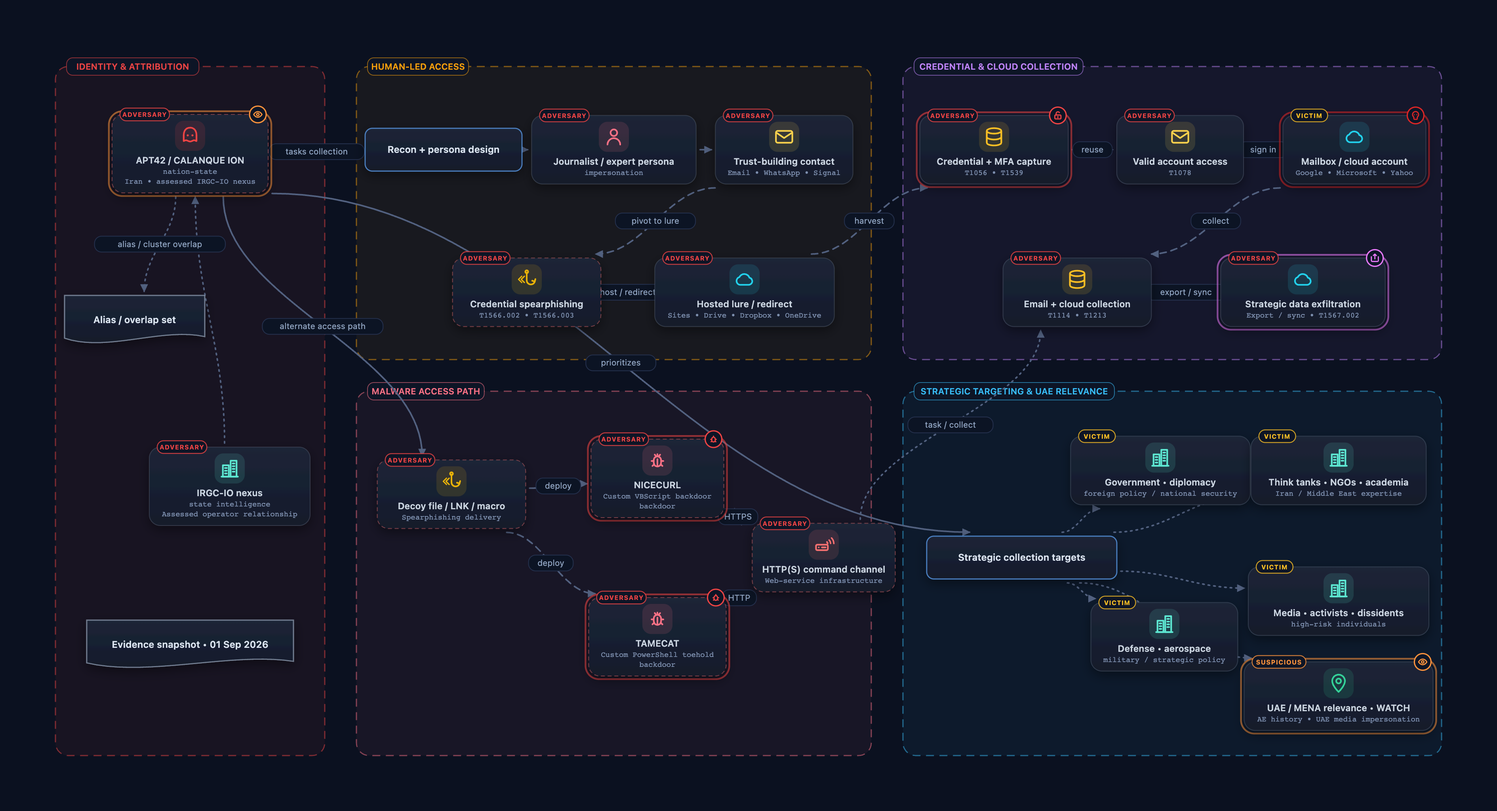
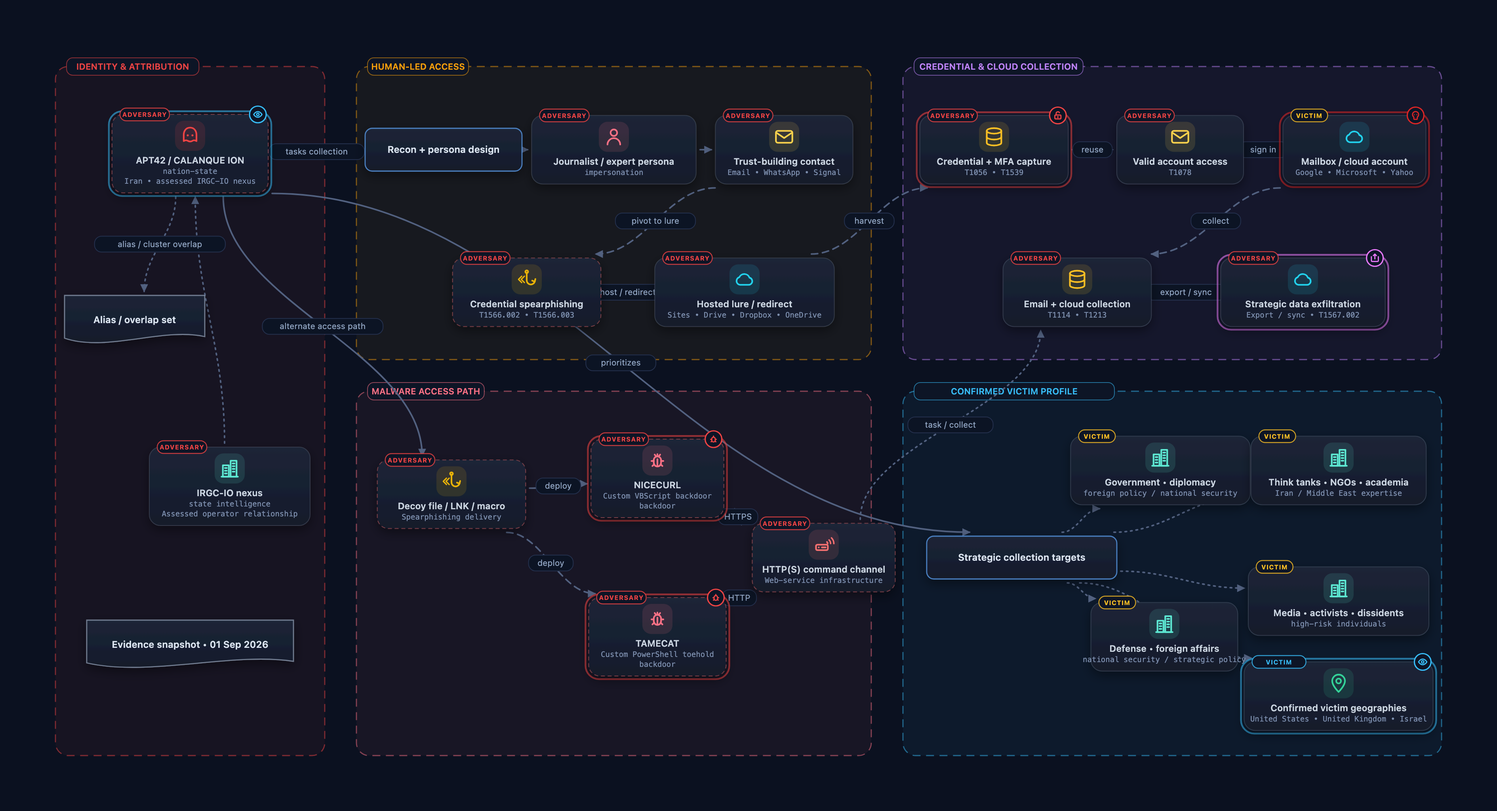
Redesign APT42 analysis and refine victim scope
Add guided investigation views, animated interaction, responsive presentation, and source-confirmed victim geographies.

diff --git a/index.html b/index.html
@@ -3,214 +3,137 @@
 <head>
   <meta charset="utf-8">
   <meta name="viewport" content="width=device-width, initial-scale=1">
-  <meta name="description" content="Interactive APT42 threat actor relationship and intrusion-path analysis.">
-  <title>APT42 Threat Actor Analysis</title>
+  <meta name="theme-color" content="#05070d">
+  <meta name="description" content="Interactive APT42 intrusion, collection and victim-profile analysis.">
+  <meta property="og:title" content="APT42 — Intrusion &amp; Targeting Map">
+  <meta property="og:description" content="Explore APT42's human-led access, credential theft, cloud collection, malware and confirmed victim profile.">
+  <meta property="og:image" content="APT42_Threat_Actor_Analysis.png">
+  <title>APT42 — Intrusion &amp; Targeting Map</title>
   <style>
-    :root {
-      color-scheme: dark;
-      --bg: #070b14;
-      --panel: rgba(15, 22, 38, .92);
-      --border: #25324b;
-      --text: #e5edf8;
-      --muted: #91a2bb;
-      --accent: #38bdf8;
-      --warn: #fb923c;
-    }
+    :root { color-scheme: dark; --bg:#05070d; --panel:rgba(9,14,25,.82); --line:rgba(137,161,196,.18); --line-strong:rgba(125,211,252,.35); --text:#f2f6fc; --muted:#8ea0ba; --cyan:#38bdf8; --violet:#c084fc; --amber:#fbbf24; --shadow:0 22px 70px rgba(0,0,0,.38); }
     * { box-sizing: border-box; }
-    html, body { height: 100%; margin: 0; }
-    body {
-      display: grid;
-      grid-template-rows: auto 1fr auto;
-      overflow: hidden;
-      background:
-        radial-gradient(circle at 15% 15%, rgba(56,189,248,.08), transparent 32%),
-        radial-gradient(circle at 85% 80%, rgba(192,132,252,.07), transparent 36%),
-        var(--bg);
-      color: var(--text);
-      font: 14px/1.45 Inter, ui-sans-serif, system-ui, -apple-system, BlinkMacSystemFont, "Segoe UI", sans-serif;
-    }
-    header {
-      position: relative;
-      z-index: 3;
-      display: flex;
-      align-items: center;
-      gap: 18px;
-      min-height: 68px;
-      padding: 12px 18px;
-      border-bottom: 1px solid var(--border);
-      background: var(--panel);
-      backdrop-filter: blur(14px);
-    }
-    .identity { min-width: 250px; }
-    .eyebrow {
-      color: var(--accent);
-      font-size: 10px;
-      font-weight: 750;
-      letter-spacing: .16em;
-      text-transform: uppercase;
-    }
-    h1 { margin: 2px 0 0; font-size: clamp(17px, 2vw, 23px); line-height: 1.1; }
-    .subtitle { color: var(--muted); font-size: 12px; }
-    .actions { display: flex; flex-wrap: wrap; gap: 8px; margin-left: auto; }
-    button, .button {
-      display: inline-flex;
-      align-items: center;
-      justify-content: center;
-      min-height: 34px;
-      padding: 0 11px;
-      border: 1px solid var(--border);
-      border-radius: 9px;
-      background: #111a2d;
-      color: var(--text);
-      font: inherit;
-      font-size: 12px;
-      font-weight: 650;
-      text-decoration: none;
-      cursor: pointer;
-    }
-    button:hover, .button:hover { border-color: #486081; background: #16233a; }
-    .button.primary { border-color: #1e6086; background: #10324a; color: #7dd3fc; }
-    #viewer {
-      position: relative;
-      min-height: 0;
-      overflow: hidden;
-      touch-action: none;
-      cursor: grab;
-    }
-    #viewer.dragging { cursor: grabbing; }
-    #stage { width: 100%; height: 100%; }
-    #stage svg { width: 100%; height: 100%; display: block; }
-    .status {
-      position: absolute;
-      left: 16px;
-      bottom: 14px;
-      display: flex;
-      gap: 8px;
-      flex-wrap: wrap;
-      pointer-events: none;
-    }
-    .pill {
-      padding: 5px 9px;
-      border: 1px solid var(--border);
-      border-radius: 999px;
-      background: rgba(9,14,25,.85);
-      color: var(--muted);
-      font-size: 11px;
-      backdrop-filter: blur(8px);
-    }
-    .pill.watch { border-color: rgba(251,146,60,.45); color: #fdba74; }
-    footer {
-      display: flex;
-      align-items: center;
-      gap: 12px;
-      min-height: 38px;
-      padding: 7px 18px;
-      border-top: 1px solid var(--border);
-      background: var(--panel);
-      color: var(--muted);
-      font-size: 11px;
-    }
-    footer span:last-child { margin-left: auto; }
-    @media (max-width: 760px) {
-      header { align-items: flex-start; flex-direction: column; gap: 10px; }
-      .actions { margin-left: 0; }
-      footer { display: none; }
-    }
+    html,body { width:100%; height:100%; margin:0; }
+    body { overflow:hidden; background:radial-gradient(circle at 72% 16%,rgba(56,189,248,.09),transparent 28%),radial-gradient(circle at 24% 86%,rgba(192,132,252,.08),transparent 32%),linear-gradient(145deg,#070b13 0%,var(--bg) 52%,#060914 100%); color:var(--text); font:14px/1.45 Inter,ui-sans-serif,system-ui,-apple-system,BlinkMacSystemFont,"Segoe UI",sans-serif; }
+    body::before { position:fixed; inset:0; z-index:-1; background-image:linear-gradient(rgba(126,156,193,.025) 1px,transparent 1px),linear-gradient(90deg,rgba(126,156,193,.025) 1px,transparent 1px); background-size:38px 38px; content:""; mask-image:linear-gradient(to bottom,#000,transparent 85%); }
+    button,a { font:inherit; }
+    button:focus-visible,a:focus-visible { outline:2px solid var(--cyan); outline-offset:3px; }
+    .shell { display:grid; grid-template-rows:auto 1fr; height:100%; }
+    header { position:relative; z-index:20; display:grid; grid-template-columns:minmax(270px,1fr) auto auto; align-items:center; gap:24px; min-height:86px; padding:14px 20px; border-bottom:1px solid var(--line); background:rgba(5,8,15,.78); box-shadow:0 12px 40px rgba(0,0,0,.2); backdrop-filter:blur(18px) saturate(135%); }
+    header::after { position:absolute; right:0; bottom:-1px; left:0; height:1px; background:linear-gradient(90deg,transparent,rgba(56,189,248,.7),rgba(192,132,252,.45),transparent); content:""; }
+    .brand { display:flex; align-items:center; gap:13px; min-width:0; }
+    .mark { position:relative; display:grid; flex:0 0 46px; width:46px; height:46px; place-items:center; border:1px solid rgba(56,189,248,.42); border-radius:14px; background:linear-gradient(145deg,rgba(56,189,248,.16),rgba(192,132,252,.08)); color:#a5e3ff; box-shadow:inset 0 0 20px rgba(56,189,248,.08),0 0 30px rgba(56,189,248,.07); font-weight:850; letter-spacing:-.05em; }
+    .mark::after { position:absolute; inset:5px; border:1px solid rgba(255,255,255,.08); border-radius:9px; content:""; }
+    .eyebrow { color:var(--cyan); font-size:9px; font-weight:800; letter-spacing:.19em; text-transform:uppercase; }
+    h1 { overflow:hidden; margin:3px 0 0; font-size:clamp(17px,1.8vw,23px); line-height:1.05; letter-spacing:-.025em; text-overflow:ellipsis; white-space:nowrap; }
+    .subtitle { margin-top:4px; overflow:hidden; color:var(--muted); font-size:11px; text-overflow:ellipsis; white-space:nowrap; }
+    .signal-strip { display:flex; gap:8px; }
+    .signal { min-width:118px; padding:8px 10px; border:1px solid var(--line); border-radius:11px; background:rgba(14,22,37,.58); }
+    .signal strong { display:block; color:#dce8f7; font-size:11px; font-weight:750; }
+    .signal span { display:block; margin-top:1px; color:var(--muted); font-size:9px; letter-spacing:.08em; text-transform:uppercase; }
+    .signal.confidence strong { color:#86efcf; } .signal.paths strong { color:#f9d477; } .signal.victims strong { color:#8bdcff; }
+    .header-actions { display:flex; align-items:center; gap:8px; }
+    .icon-button,.download-button { display:inline-grid; min-height:36px; place-items:center; border:1px solid var(--line); border-radius:10px; background:rgba(18,28,47,.72); color:#c7d4e6; text-decoration:none; cursor:pointer; transition:transform .18s ease,border-color .18s ease,background .18s ease,color .18s ease; }
+    .icon-button { width:36px; padding:0; font-size:17px; } .download-button { padding:0 12px; color:#b6e8ff; font-size:11px; font-weight:750; }
+    .icon-button:hover,.download-button:hover { transform:translateY(-1px); border-color:var(--line-strong); background:rgba(22,42,67,.9); color:#fff; }
+    main { position:relative; min-height:0; overflow:hidden; }
+    #viewer { position:absolute; inset:0; overflow:hidden; touch-action:none; cursor:grab; } #viewer.dragging { cursor:grabbing; }
+    #stage { width:100%; height:100%; opacity:0; transform:scale(.985); transition:opacity .65s ease,transform .65s ease; } #stage.ready { opacity:1; transform:scale(1); }
+    #stage svg { display:block; width:100%; height:100%; }
+    #stage .nodeg { cursor:crosshair; transition:opacity .22s ease,filter .22s ease; }
+    #stage .nodeg .card { transition:stroke .22s ease,filter .22s ease; }
+    #stage .nodeg:hover .card { stroke:#7dd3fc!important; filter:url(#nodeShadow) drop-shadow(0 0 9px rgba(56,189,248,.35)); }
+    #stage .nodeg.selected .card { stroke:#fff!important; filter:url(#nodeShadow) drop-shadow(0 0 12px rgba(125,211,252,.5)); }
+    #stage .edge path { transition:opacity .2s ease,stroke-width .2s ease; }
+    #stage .edge.flow path { animation:flow 1.25s linear infinite; }
+    @keyframes flow { to { stroke-dashoffset:-24; } }
+    .glass { border:1px solid var(--line); background:var(--panel); box-shadow:var(--shadow); backdrop-filter:blur(18px) saturate(125%); }
+    .intel-card { position:absolute; top:18px; right:18px; z-index:10; width:min(310px,calc(100vw - 36px)); padding:15px; border-radius:16px; transition:opacity .25s ease,transform .25s ease; }
+    .intel-card.collapsed { transform:translateX(calc(100% + 32px)); opacity:0; pointer-events:none; }
+    .card-top { display:flex; align-items:center; justify-content:space-between; gap:12px; }
+    .card-kicker { color:var(--cyan); font-size:9px; font-weight:800; letter-spacing:.16em; text-transform:uppercase; }
+    .card-title { margin:4px 0 0; font-size:15px; letter-spacing:-.01em; }
+    .close-card { border:0; background:transparent; color:var(--muted); cursor:pointer; }
+    .assessment { margin:13px 0; color:#becbe0; font-size:12px; line-height:1.55; }
+    .facts { display:grid; gap:8px; }
+    .fact { display:grid; grid-template-columns:8px 1fr; gap:8px; align-items:start; color:var(--muted); font-size:10px; }
+    .fact i { width:6px; height:6px; margin-top:5px; border-radius:50%; background:var(--cyan); box-shadow:0 0 12px currentColor; }
+    .fact:nth-child(2) i { background:var(--amber); } .fact:nth-child(3) i { background:var(--violet); }
+    .source-line { margin-top:13px; padding-top:11px; border-top:1px solid var(--line); color:#6f829f; font-size:9px; }
+    .reopen-card { position:absolute; top:18px; right:18px; z-index:9; display:none; } .intel-card.collapsed + .reopen-card { display:inline-grid; }
+    .legend { position:absolute; left:18px; bottom:88px; z-index:8; display:flex; gap:12px; padding:8px 11px; border-radius:10px; color:var(--muted); font-size:9px; pointer-events:none; }
+    .legend span { display:inline-flex; align-items:center; gap:6px; } .legend i { display:inline-block; width:24px; height:0; border-top:2px solid #97a9bf; }
+    .legend .dashed { border-top-style:dashed; border-color:var(--amber); } .legend .dotted { border-top-style:dotted; border-color:var(--cyan); }
+    .story-dock { position:absolute; right:18px; bottom:16px; left:18px; z-index:12; display:flex; align-items:center; gap:7px; min-width:0; padding:8px; border-radius:15px; }
+    .dock-label { padding:0 9px; color:#6f829f; font-size:9px; font-weight:800; letter-spacing:.15em; text-transform:uppercase; white-space:nowrap; }
+    .chapters { display:flex; gap:6px; min-width:0; overflow-x:auto; scrollbar-width:none; } .chapters::-webkit-scrollbar { display:none; }
+    .chapter { position:relative; min-height:38px; padding:0 13px; border:1px solid transparent; border-radius:10px; background:transparent; color:var(--muted); font-size:10px; font-weight:730; white-space:nowrap; cursor:pointer; transition:color .18s ease,background .18s ease,border-color .18s ease; }
+    .chapter::before { margin-right:7px; color:#51647f; content:attr(data-key); font-size:8px; }
+    .chapter:hover { color:#dce8f7; background:rgba(39,55,80,.35); }
+    .chapter.active { border-color:rgba(56,189,248,.32); background:rgba(56,189,248,.1); color:#bdeaff; } .chapter.active::before { color:var(--cyan); }
+    .dock-actions { display:flex; gap:5px; margin-left:auto; padding-left:6px; border-left:1px solid var(--line); } .dock-actions .icon-button { width:32px; min-height:32px; font-size:15px; }
+    .tooltip { position:absolute; z-index:30; display:none; width:min(260px,calc(100vw - 30px)); padding:11px 12px; border-radius:12px; pointer-events:none; }
+    .tooltip.visible { display:block; animation:tooltip-in .16s ease both; } .tooltip strong { display:block; color:#e8f2ff; font-size:11px; } .tooltip span { display:block; margin-top:4px; color:var(--muted); font-size:10px; line-height:1.45; }
+    @keyframes tooltip-in { from { opacity:0; transform:translateY(4px); } }
+    .loading { position:absolute; inset:0; display:grid; place-items:center; color:var(--muted); font-size:11px; letter-spacing:.12em; text-transform:uppercase; }
+    @media (max-width:1080px) { header { grid-template-columns:1fr auto; } .signal-strip { display:none; } .intel-card { width:280px; } }
+    @media (max-width:700px) { header { min-height:72px; padding:10px 12px; gap:10px; } .mark { width:40px; height:40px; flex-basis:40px; border-radius:12px; } .subtitle { display:none; } .download-button { display:none; } .intel-card { top:10px; right:10px; width:min(275px,calc(100vw - 20px)); } .legend { display:none; } .story-dock { right:8px; bottom:8px; left:8px; } .dock-label,.dock-actions { display:none; } .chapters { width:100%; } .chapter { min-height:36px; padding:0 11px; } }
+    @media (prefers-reduced-motion:reduce) { *,*::before,*::after { scroll-behavior:auto!important; animation-duration:.001ms!important; animation-iteration-count:1!important; transition-duration:.001ms!important; } }
   </style>
 </head>
 <body>
-  <header>
-    <div class="identity">
-      <div class="eyebrow">Threat actor analysis</div>
-      <h1>APT42 / CALANQUE ION</h1>
-      <div class="subtitle">Identity, access paths, collection, tooling and UAE relevance</div>
-    </div>
-    <div class="actions" aria-label="Viewer controls">
-      <button id="zoomOut" title="Zoom out">−</button>
-      <button id="fit" title="Fit diagram">Fit</button>
-      <button id="zoomIn" title="Zoom in">+</button>
-      <a class="button" href="APT42_Threat_Actor_Analysis.netdraw.json" download>NetDraw JSON</a>
-      <a class="button" href="APT42_Threat_Actor_Analysis.svg" download>SVG</a>
-      <a class="button primary" href="https://mr-r3b00t.github.io/net_draw/" target="_blank" rel="noopener">Edit in NetDraw</a>
-    </div>
-  </header>
-
-  <main id="viewer" aria-label="Interactive APT42 relationship graph">
-    <div id="stage" role="img" aria-label="APT42 threat actor analysis diagram"></div>
-    <div class="status">
-      <span class="pill">Drag to pan · wheel or buttons to zoom · double-click to fit</span>
-      <span class="pill">Evidence snapshot: 01 Sep 2026</span>
-      <span class="pill watch">UAE relevance: WATCH, not confirmed victimization</span>
-    </div>
-  </main>
-
-  <footer>
-    <span>Solid: supported relationship · dashed: observed operational flow · dotted: assessed overlap/context</span>
-    <span>Defensive intelligence visualization</span>
-  </footer>
-
+  <div class="shell">
+    <header>
+      <div class="brand">
+        <div class="mark" aria-hidden="true">42</div>
+        <div><div class="eyebrow">Threat intelligence · evidence map</div><h1>APT42 — Intrusion &amp; Targeting Map</h1><div class="subtitle">Identity → social engineering → credential or malware access → strategic collection</div></div>
+      </div>
+      <div class="signal-strip" aria-label="Analysis summary">
+        <div class="signal confidence"><strong>High confidence</strong><span>IRGC-IO nexus</span></div>
+        <div class="signal paths"><strong>2 intrusion paths</strong><span>Identity + malware</span></div>
+        <div class="signal victims"><strong>3 named geographies</strong><span>US · UK · Israel</span></div>
+      </div>
+      <div class="header-actions">
+        <a class="download-button" href="APT42_Threat_Actor_Analysis.netdraw.json" download>Source JSON</a>
+        <a class="download-button" href="APT42_Threat_Actor_Analysis.svg" download>Export SVG</a>
+        <button class="icon-button" id="fullscreen" type="button" title="Enter fullscreen" aria-label="Enter fullscreen">⛶</button>
+      </div>
+    </header>
+    <main>
+      <div id="viewer" aria-label="Interactive APT42 relationship graph"><div class="loading" id="loading">Loading intelligence map</div><div id="stage" role="img" aria-label="APT42 intrusion and victim-profile relationship diagram"></div></div>
+      <aside class="intel-card glass" id="intelCard" aria-label="Analytic summary">
+        <div class="card-top"><div><div class="card-kicker">Analytic summary</div><h2 class="card-title">Human trust is the access layer</h2></div><button class="close-card" id="closeCard" type="button" aria-label="Hide analytic summary">×</button></div>
+        <p class="assessment">APT42 builds credibility through tailored personas and sustained dialogue, then pivots to credential capture or a malware-backed foothold for intelligence collection.</p>
+        <div class="facts"><div class="fact"><i></i><span>Credential operations target passwords and authentication material before cloud access.</span></div><div class="fact"><i></i><span>NICECURL and TAMECAT form the alternate workstation-access branch.</span></div><div class="fact"><i></i><span>Victim sectors include government, media, civil society, academia, legal services and defense policy.</span></div></div>
+        <div class="source-line">Evidence snapshot · 01 Sep 2026 · Public first-party reporting</div>
+      </aside>
+      <button class="icon-button reopen-card glass" id="reopenCard" type="button" title="Show analytic summary" aria-label="Show analytic summary">i</button>
+      <div class="legend glass" aria-label="Relationship legend"><span><i></i>supported relationship</span><span><i class="dashed"></i>observed flow</span><span><i class="dotted"></i>assessed context</span></div>
+      <nav class="story-dock glass" aria-label="Investigation views">
+        <div class="dock-label">Explore</div>
+        <div class="chapters"><button class="chapter active" data-view="overview" data-key="0" type="button">Overview</button><button class="chapter" data-view="identity" data-key="1" type="button">Attribution</button><button class="chapter" data-view="social" data-key="2" type="button">Social engineering</button><button class="chapter" data-view="credentials" data-key="3" type="button">Credential path</button><button class="chapter" data-view="malware" data-key="4" type="button">Malware path</button><button class="chapter" data-view="victims" data-key="5" type="button">Victim profile</button></div>
+        <div class="dock-actions"><button class="icon-button" id="zoomOut" type="button" title="Zoom out" aria-label="Zoom out">−</button><button class="icon-button" id="zoomIn" type="button" title="Zoom in" aria-label="Zoom in">+</button></div>
+      </nav>
+      <div class="tooltip glass" id="tooltip" role="status" aria-live="polite"></div>
+    </main>
+  </div>
   <script>
-    const viewer = document.getElementById('viewer');
-    const stage = document.getElementById('stage');
-    let svg;
-    let base = { x: -40, y: -4, w: 1890, h: 1024 };
-    let view = { ...base };
-    let drag = null;
-
-    function applyView() {
-      if (svg) svg.setAttribute('viewBox', `${view.x} ${view.y} ${view.w} ${view.h}`);
-    }
-    function fit() { view = { ...base }; applyView(); }
-    function zoom(factor, cx = view.x + view.w / 2, cy = view.y + view.h / 2) {
-      const nextW = Math.max(280, Math.min(base.w * 2.5, view.w * factor));
-      const nextH = nextW * (view.h / view.w);
-      const rx = (cx - view.x) / view.w;
-      const ry = (cy - view.y) / view.h;
-      view = { x: cx - nextW * rx, y: cy - nextH * ry, w: nextW, h: nextH };
-      applyView();
-    }
-    function point(event) {
-      const r = viewer.getBoundingClientRect();
-      return {
-        x: view.x + (event.clientX - r.left) / r.width * view.w,
-        y: view.y + (event.clientY - r.top) / r.height * view.h
-      };
-    }
-
-    fetch('APT42_Threat_Actor_Analysis.svg')
-      .then(r => { if (!r.ok) throw new Error('SVG unavailable'); return r.text(); })
-      .then(text => {
-        stage.innerHTML = text;
-        svg = stage.querySelector('svg');
-        const vb = svg.viewBox.baseVal;
-        base = { x: vb.x, y: vb.y, w: vb.width, h: vb.height };
-        fit();
-      })
-      .catch(() => { stage.textContent = 'The APT42 diagram could not be loaded.'; });
-
-    viewer.addEventListener('wheel', event => {
-      event.preventDefault();
-      const p = point(event);
-      zoom(event.deltaY > 0 ? 1.12 : .89, p.x, p.y);
-    }, { passive: false });
-    viewer.addEventListener('pointerdown', event => {
-      drag = { p: point(event), view: { ...view } };
-      viewer.classList.add('dragging');
-      viewer.setPointerCapture(event.pointerId);
-    });
-    viewer.addEventListener('pointermove', event => {
-      if (!drag) return;
-      const p = point(event);
-      view.x = drag.view.x - (p.x - drag.p.x);
-      view.y = drag.view.y - (p.y - drag.p.y);
-      applyView();
-    });
-    viewer.addEventListener('pointerup', () => { drag = null; viewer.classList.remove('dragging'); });
-    viewer.addEventListener('pointercancel', () => { drag = null; viewer.classList.remove('dragging'); });
-    viewer.addEventListener('dblclick', fit);
-    document.getElementById('zoomIn').addEventListener('click', () => zoom(.82));
-    document.getElementById('zoomOut').addEventListener('click', () => zoom(1.22));
-    document.getElementById('fit').addEventListener('click', fit);
+    const viewer=document.getElementById('viewer'),stage=document.getElementById('stage'),tooltip=document.getElementById('tooltip'),intelCard=document.getElementById('intelCard');
+    let svg,base={x:-40,y:-4,w:1890,h:1024},view={...base},drag=null;
+    const views={overview:{x:-40,y:-4,w:1890,h:1024,nodes:[]},identity:{x:0,y:45,w:430,h:930,nodes:['actor','aliases','nexus','scope']},social:{x:350,y:70,w:760,h:430,nodes:['recon','persona','rapport','phish','lure']},credentials:{x:1020,y:55,w:820,h:445,nodes:['credcap','valid','cloudacct','collect','exfil']},malware:{x:360,y:455,w:790,h:550,nodes:['mal_lure','nicecurl','tamecat','c2']},victims:{x:1060,y:455,w:760,h:550,nodes:['targethub','gov','civil','media','defense','geographies']}};
+    const notes={actor:['APT42 / CALANQUE ION','Iranian cyber-espionage actor assessed by Mandiant to operate on behalf of the IRGC Intelligence Organization.'],nexus:['IRGC-IO nexus','High-confidence intelligence assessment supported by first-party threat reporting.'],persona:['Impersonated persona','Journalists, researchers, event organizers, think-tank staff and security professionals are used to establish credibility.'],rapport:['Trust-building contact','Benign correspondence can continue before the target is moved to a lure or another channel.'],phish:['Credential spearphishing','Links, benign-looking PDFs and messaging services deliver credential-harvesting pages.'],credcap:['Credential + MFA capture','Observed kits collect passwords, authentication codes, device PINs and recovery material.'],cloudacct:['Cloud-account compromise','Stolen authentication material enables access to personal and corporate mailboxes and cloud data.'],nicecurl:['NICECURL','Custom VBScript backdoor supporting module download and command execution over HTTPS.'],tamecat:['TAMECAT','Custom PowerShell toehold capable of executing PowerShell or C# content.'],targethub:['Strategic targeting','Collection priorities concentrate on people with access to foreign-policy, national-security and civil-society information.'],geographies:['Confirmed victim geographies','Public reporting explicitly identifies the United States, United Kingdom and Israel.']};
+    function applyView(animate=false){if(!svg)return;if(!animate){svg.setAttribute('viewBox',`${view.x} ${view.y} ${view.w} ${view.h}`);return}const start={x:svg.viewBox.baseVal.x,y:svg.viewBox.baseVal.y,w:svg.viewBox.baseVal.width,h:svg.viewBox.baseVal.height},target={...view},started=performance.now(),duration=560;function frame(now){const p=Math.min(1,(now-started)/duration),e=1-Math.pow(1-p,3),next={};for(const key of ['x','y','w','h'])next[key]=start[key]+(target[key]-start[key])*e;svg.setAttribute('viewBox',`${next.x} ${next.y} ${next.w} ${next.h}`);if(p<1)requestAnimationFrame(frame)}requestAnimationFrame(frame)}
+    function setView(name,animate=true){const preset=views[name]||views.overview;view={x:preset.x,y:preset.y,w:preset.w,h:preset.h};document.querySelectorAll('.chapter').forEach(b=>b.classList.toggle('active',b.dataset.view===name));if(svg)svg.querySelectorAll('.nodeg').forEach(n=>n.classList.toggle('selected',preset.nodes.includes(n.dataset.node)));applyView(animate)}
+    function zoom(factor,cx=view.x+view.w/2,cy=view.y+view.h/2){const nextW=Math.max(250,Math.min(base.w*2.4,view.w*factor)),nextH=nextW*(view.h/view.w),rx=(cx-view.x)/view.w,ry=(cy-view.y)/view.h;view={x:cx-nextW*rx,y:cy-nextH*ry,w:nextW,h:nextH};document.querySelectorAll('.chapter').forEach(b=>b.classList.remove('active'));applyView()}
+    function point(e){const r=viewer.getBoundingClientRect();return{x:view.x+(e.clientX-r.left)/r.width*view.w,y:view.y+(e.clientY-r.top)/r.height*view.h}}
+    function moveTooltip(e){const r=document.querySelector('main').getBoundingClientRect(),x=Math.min(r.width-278,Math.max(12,e.clientX-r.left+16)),y=Math.min(r.height-120,Math.max(12,e.clientY-r.top+16));tooltip.style.left=`${x}px`;tooltip.style.top=`${y}px`}
+    function attachGraphInteractions(){['e05','e06','e07','e08','e09','e10','e11','e12','e14','e15','e16','e17','e18'].forEach(id=>svg.querySelector(`[data-edge="${id}"]`)?.classList.add('flow'));svg.querySelectorAll('.nodeg').forEach(node=>{const entry=notes[node.dataset.node];if(!entry)return;node.addEventListener('pointerenter',e=>{tooltip.innerHTML=`<strong>${entry[0]}</strong><span>${entry[1]}</span>`;tooltip.classList.add('visible');moveTooltip(e)});node.addEventListener('pointermove',moveTooltip);node.addEventListener('pointerleave',()=>tooltip.classList.remove('visible'))})}
+    fetch('APT42_Threat_Actor_Analysis.svg').then(r=>{if(!r.ok)throw new Error('SVG unavailable');return r.text()}).then(text=>{stage.innerHTML=text;svg=stage.querySelector('svg');const vb=svg.viewBox.baseVal;base={x:vb.x,y:vb.y,w:vb.width,h:vb.height};views.overview={...base,nodes:[]};setView('overview',false);attachGraphInteractions();if(matchMedia('(max-width:700px)').matches)intelCard.classList.add('collapsed');document.getElementById('loading').remove();requestAnimationFrame(()=>stage.classList.add('ready'))}).catch(()=>{document.getElementById('loading').textContent='The intelligence map could not be loaded.'});
+    viewer.addEventListener('wheel',e=>{e.preventDefault();const p=point(e);zoom(e.deltaY>0?1.1:.9,p.x,p.y)},{passive:false});
+    viewer.addEventListener('pointerdown',e=>{if(e.target.closest('.nodeg'))return;drag={p:point(e),view:{...view}};viewer.classList.add('dragging');viewer.setPointerCapture(e.pointerId)});
+    viewer.addEventListener('pointermove',e=>{if(!drag)return;const p=point(e);view.x=drag.view.x-(p.x-drag.p.x);view.y=drag.view.y-(p.y-drag.p.y);applyView()});
+    viewer.addEventListener('pointerup',()=>{drag=null;viewer.classList.remove('dragging')});viewer.addEventListener('pointercancel',()=>{drag=null;viewer.classList.remove('dragging')});viewer.addEventListener('dblclick',()=>setView('overview'));
+    document.querySelectorAll('.chapter').forEach(b=>b.addEventListener('click',()=>setView(b.dataset.view)));document.getElementById('zoomIn').addEventListener('click',()=>zoom(.82));document.getElementById('zoomOut').addEventListener('click',()=>zoom(1.22));document.getElementById('closeCard').addEventListener('click',()=>intelCard.classList.add('collapsed'));document.getElementById('reopenCard').addEventListener('click',()=>intelCard.classList.remove('collapsed'));document.getElementById('fullscreen').addEventListener('click',()=>{if(!document.fullscreenElement)document.documentElement.requestFullscreen?.();else document.exitFullscreen?.()});
+    document.addEventListener('keydown',e=>{const map={'0':'overview','1':'identity','2':'social','3':'credentials','4':'malware','5':'victims'};if(map[e.key])setView(map[e.key]);if(e.key==='Escape'&&!document.fullscreenElement)intelCard.classList.add('collapsed')});
   </script>
 </body>
 </html>

diff --git a/README.md b/README.md
@@ -11,7 +11,7 @@ The repository contains:
 
 ## Scope and caveat
 
-The graph separates human-led credential operations from malware-enabled access and collection. UAE relevance is shown as **WATCH**, not confirmed victimization: historical regional targeting and UAE media impersonation do not establish a current UAE victim or active UAE infrastructure.
+The graph separates human-led credential operations from malware-enabled access and collection. Victim geography is limited to countries explicitly identified in the cited public reporting: the United States, United Kingdom and Israel. Impersonated brands are not treated as victims.
 
 ## Public references
 
